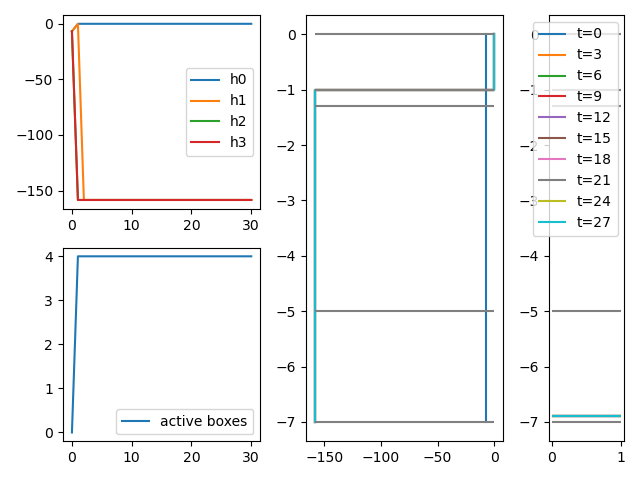
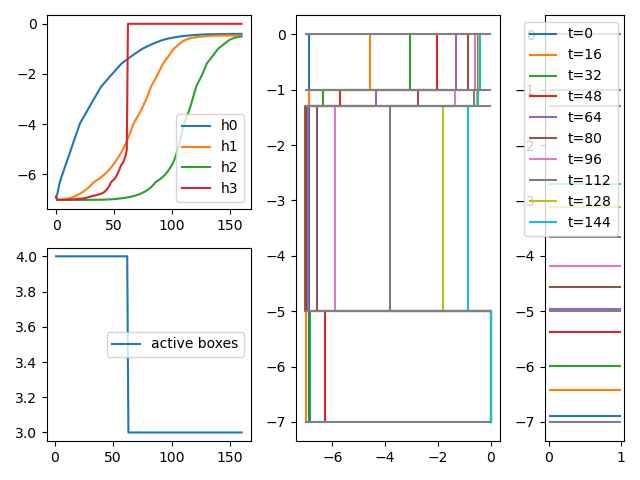
update to working version

diff --git a/megaswap.py b/megaswap.py
@@ -55,7 +55,6 @@ def get_sv(ig, fig, ip, fip, svtb: xr.DataArray, ib):
 def get_qmv(svnew: np.ndarray, svold: np.ndarray, ibox,qin, qmv_in, dtgw: float) -> np.ndarray:
     qmv = np.copy(qmv_in)
     if ibox == 0:
-        # return (svnew - svold) / dtgw - qin
         return qin + (svnew - svold) / dtgw
     else:
         return qmv[ibox - 1] + (svnew - svold) / dtgw
@@ -90,11 +89,7 @@ def phead_to_index(phead: np.ndarray, ddpptb:float, nuip: int) -> tuple[np.ndarr
 
 class DataBase:
     
-    def __init__(self, # The code `rootzone_dikte` is not performing any specific action in the
-    # provided snippet. It seems to be a variable name or identifier in Python
-    # code, but without any context or usage, it is difficult to determine its
-    # purpose or functionality.
-    rootzone_dikte: float, mv: float, dbase_path: str):
+    def __init__(self, rootzone_dikte: float, mv: float, dbase_path: str):
         tabel = xr.open_dataset(dbase_path)
         tabel['svtb'] = tabel['svtb'].fillna(0.0)
         tabel['qmrtb'] = tabel['qmrtb'].fillna(0.0)
@@ -291,7 +286,7 @@ class StorageFormulation:
         self.sc1min = sc1min
         
     def add_storage_tabel_element(self, ig_st, ig, ig_old, prz, lvgw_old, non_submerged_boxes, qmv, dtgw) -> None:
-        if np.isfinite(self.storage_tabel[ig_st]).any():
+        if np.isnan(self.storage_tabel[ig_st]):
             self.storage_tabel[ig_st] = self.database.create_storage_tabel_boxes(ig, ig_old, prz, lvgw_old, non_submerged_boxes, qmv, dtgw)
         
     def update(self, lvgw, lvgw_old, s, sold, prz, ig, ig_old, non_submerged_boxes, qmv, dtgw) -> any:
@@ -328,10 +323,10 @@ class StorageFormulation:
             sc1 = (self.storage_tabel[ig_mf6] - self.storage_tabel[ig_mf6 + 1])/(self.database.dpgwtb.loc[ig_mf6+1] - self.database.dpgwtb.loc[ig_mf6])
         sc1 = np.maximum(sc1, self.sc1min)
         sc1 = np.minimum(sc1,1.0)
-        return sc1, self.storage_tabel
+        return sc1
     
     def finalise(self)-> None:
-        self.storage_tabel[:] = 0.0
+        self.storage_tabel[:] = np.nan
 
     def f_smoothing(iter):
         iterur1 = 3
@@ -347,21 +342,26 @@ class StorageFormulation:
 class UnsaturatedZone:
     dc = 0.1e-6
     
-    def __init__(self,database: DataBase, storage_formulation: StorageFormulation, dtgw:float):
+    def __init__(self,database: DataBase, storage_formulation: StorageFormulation, dtgw:float, initial_phead:float, initial_gwl:float):
         self.database = database
         self.storage_formulation = storage_formulation
         self.dtgw = dtgw
-        self.sv = np.zeros(self.database.nbox)
         self.qmv = np.zeros(self.database.nbox)
-        self.sv_old = np.zeros_like(self.sv)
         self.storage_tabel = np.zeros(self.database.nbox)
-        self.phead = np.zeros(self.database.nbox)
-        self.ip = np.zeros(self.database.nbox)
-        self.fip = np.zeros(self.database.nbox)
+        self.phead = np.full(self.database.nbox, initial_phead)
+        self.init_soil(initial_phead, initial_gwl)
+        
+    def init_soil(self, initial_phead: float, initial_gwl: float) -> None:
+        self.sv_old = np.zeros(self.database.nbox)
+        self.ip, self.fip = phead_to_index(np.full(self.database.nbox, initial_phead), self.database.ddpptb, self.database.nuip)
+        ig, fig = self.gwl_to_index(initial_gwl)
+        for ibox in range(self.database.nbox):
+            self.sv_old[ibox] = get_sv(ig,fig,self.ip[ibox],self.fip[ibox],self.database.svtb,ibox)  
+        self.sv = np.copy(self.sv_old)
 
     def update(self, ig, fig, qrch, gwl):
         self.qmv[:] = 0.0
-        ip, fip  = phead_to_index(self.phead, self.database.ddpptb, self.database.nuip)
+        ip, _  = phead_to_index(self.phead, self.database.ddpptb, self.database.nuip)
         non_submerged_boxes = self.get_non_submerged_boxes(gwl)
         for ibox in non_submerged_boxes:
             ig_local = self.database.get_max_ig(ig, ibox, ip[ibox]) 
@@ -374,8 +374,8 @@ class UnsaturatedZone:
                 qin = self.qmv[ibox - 1]
             sigma = self.sv_old[ibox] - qin * self.dtgw 
             self.ip[ibox], self.fip[ibox] = self.database.sigma2ip(sigma, ig_local, fig, ibox, self.dtgw)
-            self.phead[ibox] = self.database.ptb['value'][ip[ibox]] + fip[ibox] * (self.database.ptb['value'][ip[ibox] + 1] - self.database.ptb['value'][ip[ibox]])
-            self.sv[ibox] = get_sv(ig_local,fig,ip[ibox],fip[ibox],self.database.svtb, ibox)
+            self.phead[ibox] = self.database.ptb['value'][self.ip[ibox]] + self.fip[ibox] * (self.database.ptb['value'][self.ip[ibox] + 1] - self.database.ptb['value'][self.ip[ibox]])
+            self.sv[ibox] = get_sv(ig_local,fig,self.ip[ibox],self.fip[ibox],self.database.svtb, ibox)
             self.qmv[ibox] = get_qmv(self.sv[ibox], self.sv_old[ibox], ibox, qin, self.qmv, self.dtgw)
         return summed_sv(self.sv), summed_sv(self.sv_old), self.phead
     
@@ -396,9 +396,9 @@ class UnsaturatedZone:
                 if sarg <= self.storage_formulation.storage_tabel[ig] and sarg >= self.storage_formulation.storage_tabel[ig+1]:
                     break
         fig = (sarg-self.storage_formulation.storage_tabel[ig])/(self.storage_formulation.storage_tabel[ig+1]-self.storage_formulation.storage_tabel[ig])
-        return self.database.mv - (self.database.dpgwtb.loc[ig] + fig*(self.database.dpgwtb.loc[ig+1]-self.database.dpgwtb.loc[ig])), ig, fig
+        return (self.database.mv - (self.database.dpgwtb.loc[ig] + fig*(self.database.dpgwtb.loc[ig+1]-self.database.dpgwtb.loc[ig])))[0].item()
 
-    def finalize(self, ig, fig, qmodf):
+    def finalize(self, ig, fig, qmodf, gwl):
         # based on msw1bd
         # update sv based on new pressure head
         ibmax = self.database.nbox - 1 # 0-based
@@ -407,6 +407,7 @@ class UnsaturatedZone:
             self.sv[ibox] = get_sv(ig_local,fig,self.ip[ibox],self.fip[ibox],self.database.svtb, ibox)
         # update qmv's
         self.qmv[:] = 0.0
+        self.phead[:] = 0.0
         self.qmv[ibmax - 1] = -(self.sv[ibmax] - self.sv_old[ibmax]) / self.dtgw + qmodf
         if self.qmv[0] > 0.0:
             raise ValueError('inflow box 1 from bottom')
@@ -414,13 +415,7 @@ class UnsaturatedZone:
             self.qmv[ibox] = -(self.sv[ibox + 1] - self.sv_old[ibox + 1]) / self.dtgw + self.qmv[ibox+1]
         self.qmv[ibmax] = (self.sv[ibmax] - self.sv_old[ibmax]) / self.dtgw + self.qmv[ibmax - 1]
         # update prz
-        for ibox in range(ibmax):  
-            # if ibox == 0:
-            #     qin = -qrch
-            # else:
-            #     qin = qmv[ibox - 1]
-            # sigma = svold[ibox] - qin * dtgw
-            # ig_local = get_max_ig(ig_init, ibox, ip[ibox], ig_box_bottom) 
+        for ibox in self.get_non_submerged_boxes(gwl):  
             self.ip[ibox], self.fip[ibox] = self.database.sv2ip(self.sv[ibox], ig_local, fig, ibox, self.dtgw)
             self.phead[ibox] = self.database.ptb['value'][self.ip[ibox]] + self.fip[ibox] * (self.database.ptb['value'][self.ip[ibox] + 1] - self.database.ptb['value'][self.ip[ibox]])
         return self.ip, self.fip, self.phead
@@ -430,7 +425,7 @@ class UnsaturatedZone:
         mask = self.database.dpgwtb['value'].loc[ig] >= -self.database.box_top
         return np.arange(self.database.box_top.size)[mask]
 
-    def gwl_to_index(self, gwl: np.ndarray) -> tuple[np.ndarray, np.ndarray]:
+    def gwl_to_index(self, gwl) -> tuple[np.ndarray, np.ndarray]:
         dpgw = self.database.mv - gwl
         igk = self.database.igdc['index_gwtb'][np.floor((dpgw + self.dc) / self.database.ddgwtb)]  # ddgwtb = stepsize in igdc array
         # ponding
@@ -440,6 +435,9 @@ class UnsaturatedZone:
         igk = np.maximum(igk, self.database.nlig - 1)
         figk = (dpgw - self.database.dpgwtb['value'][igk]) / (self.database.dpgwtb['value'][igk + 1] - self.database.dpgwtb['value'][igk])
         return igk,figk
+    
+    def save_to_old(self) -> None:
+        self.sv_old = np.copy(self.sv)
 
 class MegaSwap:
 
@@ -458,14 +456,16 @@ class MegaSwap:
         self.unsaturated_zone = UnsaturatedZone(
             database = self.database, 
             storage_formulation = self.storage_formulation,
-            dtgw = self.dtgw
+            dtgw = self.dtgw,
+            initial_phead = parameters["initial_phead"],
+            initial_gwl = parameters["initial_gwl"]
         )
         self.init()
         
     def init(self):
         self.gwl_old = parameters["initial_gwl"]
         self.gwl = parameters["initial_gwl"]
-        self.phead_old = np.full(self.database.nbox, parameters["initial_phead"])
+        self.gwl_msw = parameters["initial_gwl"]
         self.ig_old = None
         
     def prepare_timestep(self, itime: int) -> float:
@@ -476,10 +476,10 @@ class MegaSwap:
             self.ig_old = np.copy(ig)
         return self.vsim
     
-    def do_iter(self, gwl) -> float:
-        non_submerged_boxes = self.unsaturated_zone.get_non_submerged_boxes(gwl)
+    def do_iter(self, gwl: float) -> float:
+        self.non_submerged_boxes = self.unsaturated_zone.get_non_submerged_boxes(gwl)
         self.ig, self.fig = self.unsaturated_zone.gwl_to_index(gwl)
-        self.sc1, self.storage_tabel = self.storage_formulation.update(
+        self.sc1 = self.storage_formulation.update(
             gwl, 
             self.gwl_old, 
             self.s, 
@@ -487,13 +487,11 @@ class MegaSwap:
             self.phead, 
             self.ig, 
             self.ig_old, 
-            non_submerged_boxes,
+            self.non_submerged_boxes,
             self.unsaturated_zone.qmv, 
             self.unsaturated_zone.dtgw
         )
-        self.gwl_old = np.copy(gwl)
-        self.gwl_msw = self.unsaturated_zone.get_gwl(self.s, self.phead, self.gwl_old, self.ig, self.ig_old, non_submerged_boxes)
-        return self.sc1, non_submerged_boxes.size
+        return self.sc1, self.non_submerged_boxes.size
     
     def finalise_iter(self) -> None:
         self.storage_formulation.finalise()
@@ -502,17 +500,22 @@ class MegaSwap:
         self.gwl = gwl
         qmodf = (self.sc1 * (self.gwl_old - self.gwl) - self.vsim)
         ig, fig = self.unsaturated_zone.gwl_to_index(self.gwl)
-        ip, fip, self.phead = self.unsaturated_zone.finalize(ig, fig, qmodf)
+        ip, fip, self.phead = self.unsaturated_zone.finalize(ig, fig, qmodf, gwl)
         self.save_to_old(gwl,ig,ip,fip)
         
     def save_to_old(self, gwl, ig, ip, fip) -> None:
         self.gwl_old = np.copy(gwl)
-        self.phead_old = np.copy(self.phead)
         self.ig_old = np.copy(ig)
         self.ip_old, self.fip_old = np.copy(ip), np.copy(fip)
+        self.unsaturated_zone.save_to_old()
+        
+    def get_gwl(self) -> float:
+        self.non_submerged_boxes = self.unsaturated_zone.get_non_submerged_boxes(self.gwl)
+        ig, _ = self.unsaturated_zone.gwl_to_index(self.gwl)
+        return self.unsaturated_zone.get_gwl(self.s,self.phead,self.gwl_old,ig,self.ig_old, self.non_submerged_boxes)
 
 ## entry point of script ##
-qrch = np.array([0.0016]*30)
+qrch = np.array([0.0016]*160)
 parameters = {
     "databse_path": 'database\\unsa_300.nc',
     "rootzone_dikte": 1.0,
@@ -529,18 +532,21 @@ megaswap = MegaSwap(parameters)
 ntime = qrch.size
 niter = 1
 
+gwl = parameters['initial_gwl']
+
 phead_log = np.zeros((ntime + 1, 18))
 phead_log[0,:] = parameters['initial_phead']
 gwl_log = np.zeros((ntime + 1))
 gwl_log[0] = parameters["initial_gwl"]
-nbox_log = np.zeros((ntime + 1))
+nbox_log = np.full((ntime + 1), np.nan)
 for itime in range(ntime):
     vsim = megaswap.prepare_timestep(itime)
     for iter in range(niter):
-        sc1, nbox_log[itime+1] = megaswap.do_iter(megaswap.gwl)
-        gwl_log[itime + 1] = megaswap.gwl
+        sc1, nbox_log[itime+1] = megaswap.do_iter(gwl)  
+    gwl = megaswap.get_gwl()
+    gwl_log[itime + 1] = gwl
     megaswap.finalise_iter()
-    megaswap.finalise_timestep(gwl_log[itime + 1])
+    megaswap.finalise_timestep(gwl)
     phead_log[itime + 1,:] = np.copy(megaswap.phead)  # logging
     
 # plot pheads
@@ -555,6 +561,8 @@ figure, ax = plt.subplot_mosaic(
 ) 
 
 n = int(ntime/10)
+if ntime < 10:
+    n=1
 colors = []
 for ibox in range(max_box):
     ax['0'].plot(phead_log[:,ibox], label = f"h{ibox}")
